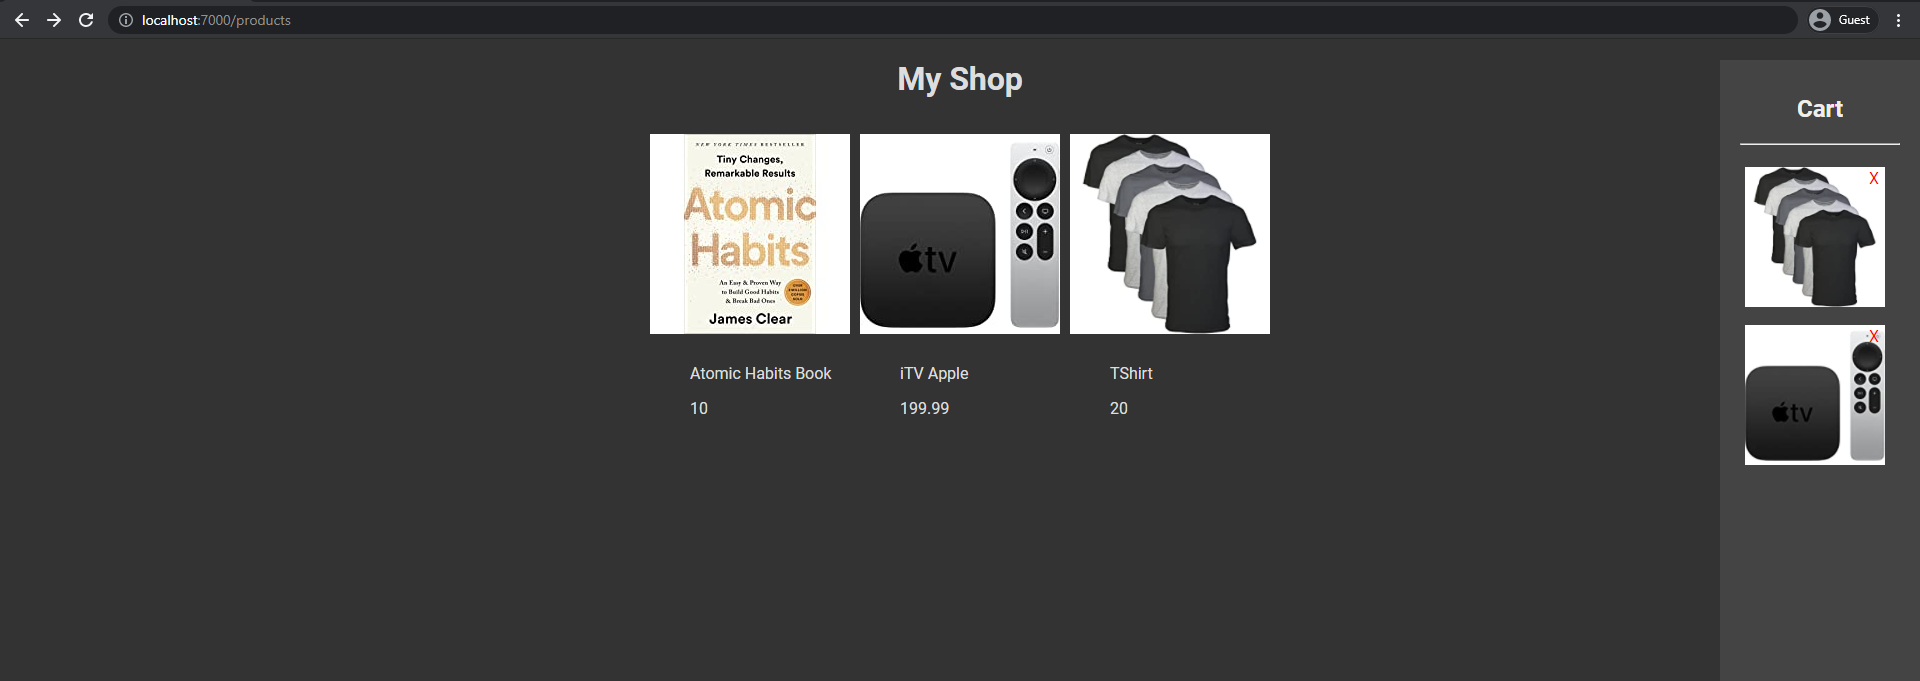
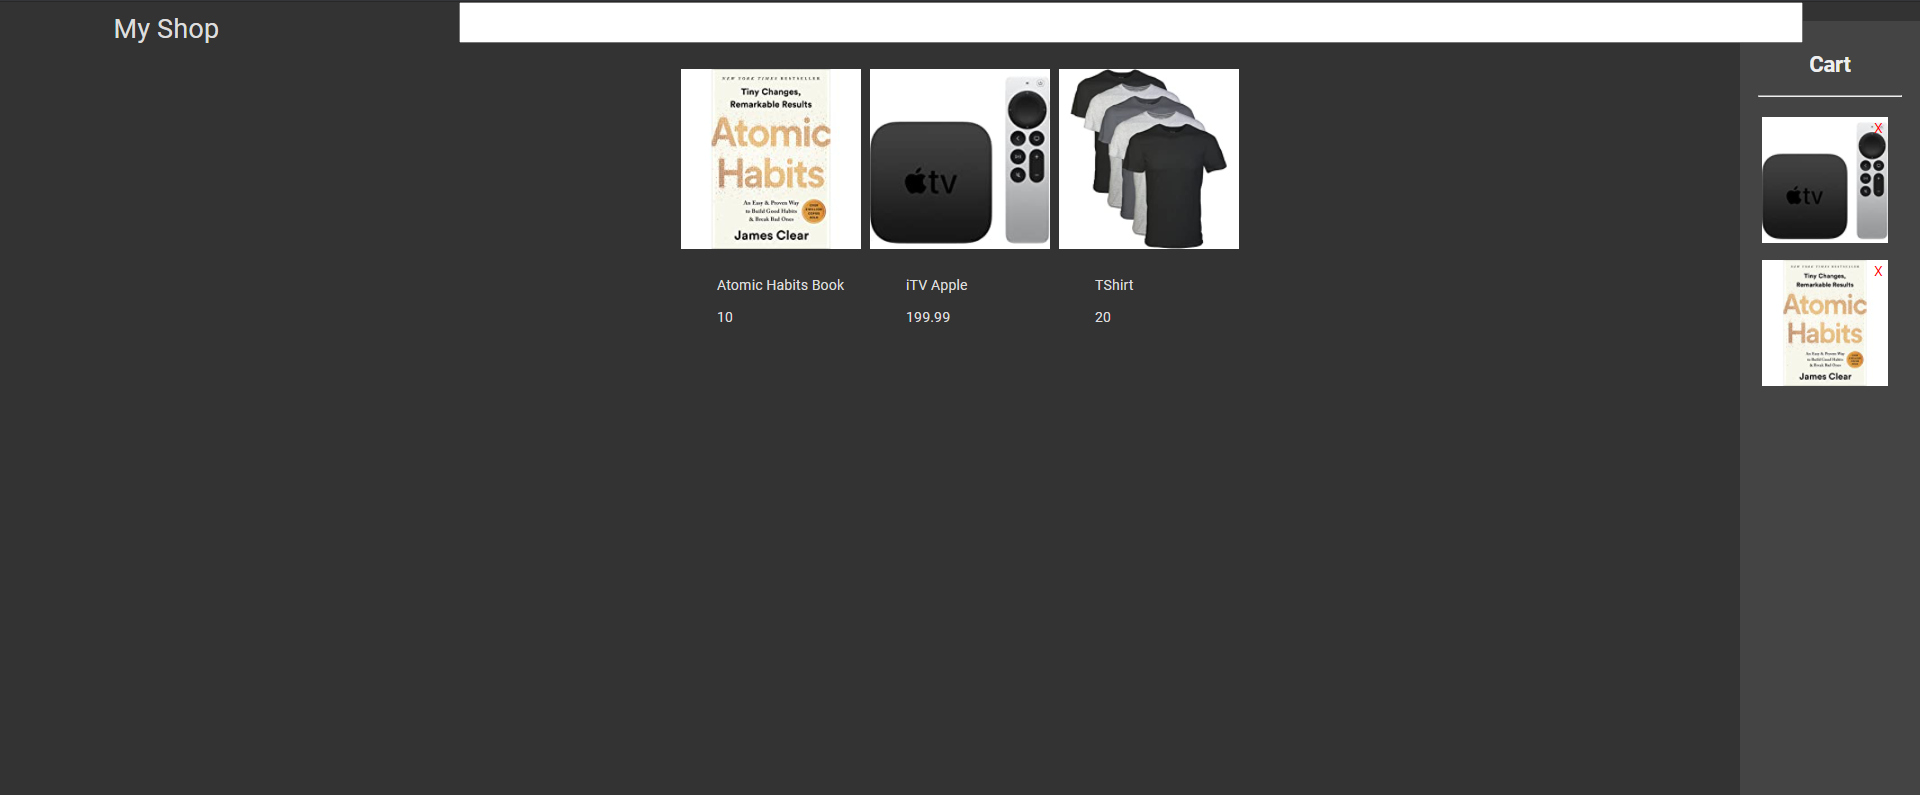
feat: added search box logic and style - working

diff --git a/pages/products/index.js b/pages/products/index.js
@@ -1,14 +1,26 @@
 import { useRouter } from "next/router";
 import { useState, useEffect } from "react";
 import useFetch from "../../Helpers/Hooks/useFetch";
+import styles from "./allProducts.module.css";
 
 export let pageId = 0;
 
 const Products = () => {
 
   const router = useRouter();
-  const [productsList, setProductsList] = useState([]);
-  const {data: retrievedData, error, isPending} = useFetch('http://localhost:1337/products/');
+  const [ productsList, setProductsList ] = useState([]);
+
+  // COMMT: TODO: Add ability to search price etc
+  // COMMT: TODO: Add auto correct to search etc
+
+  const  [ searchTitle, setSearchTitle ] = useState("");
+  let fetchUrl = `http://localhost:1337/products/`;
+
+  if (searchTitle.length >= 1) {
+    fetchUrl = `http://localhost:1337/products?title_contains=${searchTitle}`;
+  };
+
+  const {data: retrievedData, error, isPending} = useFetch(fetchUrl);
 
   useEffect( () => {
     if (retrievedData) setProductsList(retrievedData);
@@ -21,7 +33,19 @@ const Products = () => {
 
   return (
     <div className="App">
-      <h1 className="center-this">My Shop</h1>
+
+      {/* // COMMT: Make this a component */}
+      <div className={styles['title-area']}>
+        <span className={styles['title-name']}>My Shop</span>
+        <div className={styles['search-box-container']}>
+          <input
+            className={styles['search-box']}
+            value={searchTitle}
+            onChange={(e) => setSearchTitle(e.target?.value)}
+          />
+        </div>
+
+      </div>
       <div className="item-container">
 
         {retrievedData && productsList.map((currProduct) => {

diff --git a/pages/products/[slug].js b/pages/products/[slug].js
@@ -1,7 +1,6 @@
 // import axios from "axios";
-import { useRouter } from "next/router";
-import { useState, useEffect, useContext } from "react";
 import Link from "next/link";
+import { useState, useEffect, useContext } from "react";
 import { ADD_TO_CART } from "../../Helpers/Reducers/cartReducer";
 import { CartContext } from "../../Helpers/Contexts/CartContext";
 import useFetch from "../../Helpers/Hooks/useFetch";
@@ -9,18 +8,15 @@ import { pageId } from "./index";
 import { addToCart } from "./api";
 
 const Slug = () => {
-  const router = useRouter();
-  // const pageId = router.query.slug;
   const [productsList, setProductsList] = useState([]);
   const pageUrl = `http://localhost:1337/products/${pageId}`;
   const {data: retrievedData, error, isPending} = useFetch(pageUrl);
-  // const currProduct = productsList[pageId-1];
   const currProduct = productsList;
   const { dispatch } = useContext(CartContext);
 
   useEffect( () => {
     if (retrievedData) setProductsList(retrievedData);
-    console.log('retrievedData :>> ', retrievedData);
+    // console.log('retrievedData :>> ', retrievedData);
   }, [retrievedData]);
 
   function handleAddToCart(product) {

diff --git a/components/Cart/Cart.js b/components/Cart/Cart.js
@@ -2,7 +2,7 @@ import { useContext, useEffect, useState } from 'react';
 import { CartContext } from '../../Helpers/Contexts/CartContext';
 import { REMOVE_PRODUCT } from '../../Helpers/Reducers/cartReducer';
 import { deleteCart } from './api';
-import styles from "./Cart.module.css";
+import styles from "./cart.module.css";
 
 const Cart = () => {
 

diff --git a/pages/products/allProducts.module.css b/pages/products/allProducts.module.css
@@ -1,0 +1,22 @@
+.title-area {
+  display: flex;
+  justify-content: space-around;
+  align-items: center;
+}
+
+.title-name {
+  font-size: 1.9rem;
+}
+
+.search-box-container {
+  z-index: 1;
+}
+
+.search-box {
+  margin: 0px 4px 14px 14px;
+  padding: 4px;
+  width: 70vw;
+  height: 46px;
+  outline: none;
+  font-size: 1.4rem;
+}
